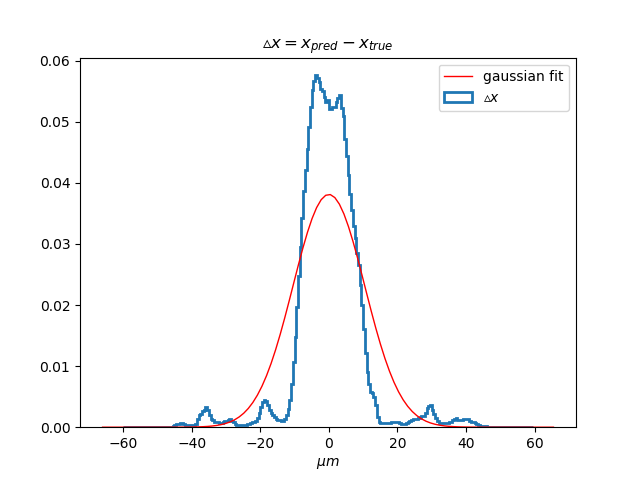
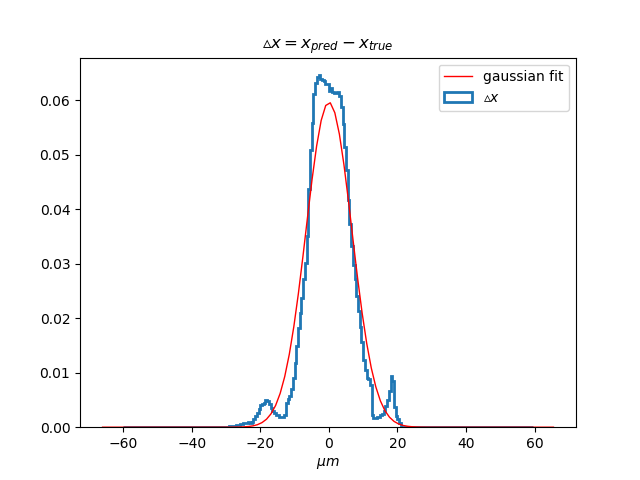
improved

diff --git a/code/text2h5.py b/code/text2h5.py
@@ -114,7 +114,6 @@ y_position = -(x_position_pav + (pixelsize_z/2.)*cotb)
 
 print("transposed all train matrices\nconverted train_labels from pixelav coords to cms coords \ncomputed train cota cotb\n")
 
-
 #shifting wav of cluster to matrix centre
 for index in np.arange(len(train_data)):
 #for index in np.arange(50):
@@ -264,8 +263,8 @@ y_position = -(x_position_pav + (pixelsize_z/2.)*cotb)
 print("transposed all test matrices\nconverted test_labels from pixelav coords to cms coords \ncomputed test cota cotb\n")
 
 #shifting wav of cluster to matrix centre
-for index in np.arange(len(test_data)):
-#for index in np.arange(50):
+#for index in np.arange(len(test_data)):
+for index in np.arange(50):
 	nonzero_list = np.transpose(np.asarray(np.nonzero(test_data[index])))
 	nonzero_elements = test_data[index][np.nonzero(test_data[index])]
 	#print(nonzero_elements.shape)
@@ -290,31 +289,35 @@ for index in np.arange(len(test_data)):
 		y_position[index]-=pixelsize_y[index]*shift_i
 	if(shift_j>0 and np.amax(nonzero_j)!=12):
 
-		print(test_data[index].reshape((21,13)))
-		print(wav_i,wav_j)
-		print(shift_i,shift_j)
+		#print(test_data[index].reshape((21,13)))
+		#print(x_position[index],y_position[index])
+		#print(wav_i,wav_j)
+		#print(shift_i,shift_j)
 
 		#shift right iff there is no element in the last row
 		test_data[index] = np.roll(test_data[index],shift_j,axis=1)
 		#shift hit position too
 		x_position[index]+=pixelsize_x[index]*shift_j
 
-		print(test_data[index].reshape((21,13)))
-		print('shift right done')
+		#print(test_data[index].reshape((21,13)))
+		#print(x_position[index],y_position[index])
+		#print('shift right done')
 
 	if(shift_j<0 and np.amin(nonzero_j)!=0):
 
-		print(test_data[index].reshape((21,13)))
-		print(wav_i,wav_j)
-		print(shift_i,shift_j)
+		#print(test_data[index].reshape((21,13)))
+		#print(x_position[index],y_position[index])
+		#print(wav_i,wav_j)
+		#print(shift_i,shift_j)
 
 		#shift left iff there is no element in the first row
 		test_data[index] = np.roll(test_data[index],shift_j,axis=1)
 		#shift hit position too
 		x_position[index]+=pixelsize_x[index]*shift_j
 
-		print(test_data[index].reshape((21,13)))
-		print('shift left done')
+		#print(test_data[index].reshape((21,13)))
+		#print(x_position[index],y_position[index])
+		#print('shift left done')
 
 print("shifted wav of clusters to matrix centres")
 

diff --git a/code/find_hit_position.py b/code/find_hit_position.py
@@ -53,7 +53,7 @@ f.close()
 # Model configuration
 batch_size = 64
 loss_function = 'mse'
-n_epochs = 3
+n_epochs = 5
 optimizer = Adam(lr=0.001)
 validation_split = 0.3
 
@@ -170,7 +170,7 @@ plt.ylabel('loss')
 plt.xlabel('epoch')
 plt.legend(['x-train', 'x-validation'], loc='upper right')
 #plt.show()
-plt.savefig("plots/loss_x_%s.png"%(date))
+plt.savefig("plots/loss_x_%s.png"%(img_ext))
 plt.close()
 
 plt.plot(history.history['y_loss'])
@@ -180,7 +180,7 @@ plt.ylabel('loss')
 plt.xlabel('epoch')
 plt.legend(['y-train', 'y-validation'], loc='upper right')
 #plt.show()
-plt.savefig("plots/loss_y_%s.png"%(date))
+plt.savefig("plots/loss_y_%s.png"%(img_ext))
 plt.close()
 
 mean_x, sigma_x = norm.fit(residuals_x)
